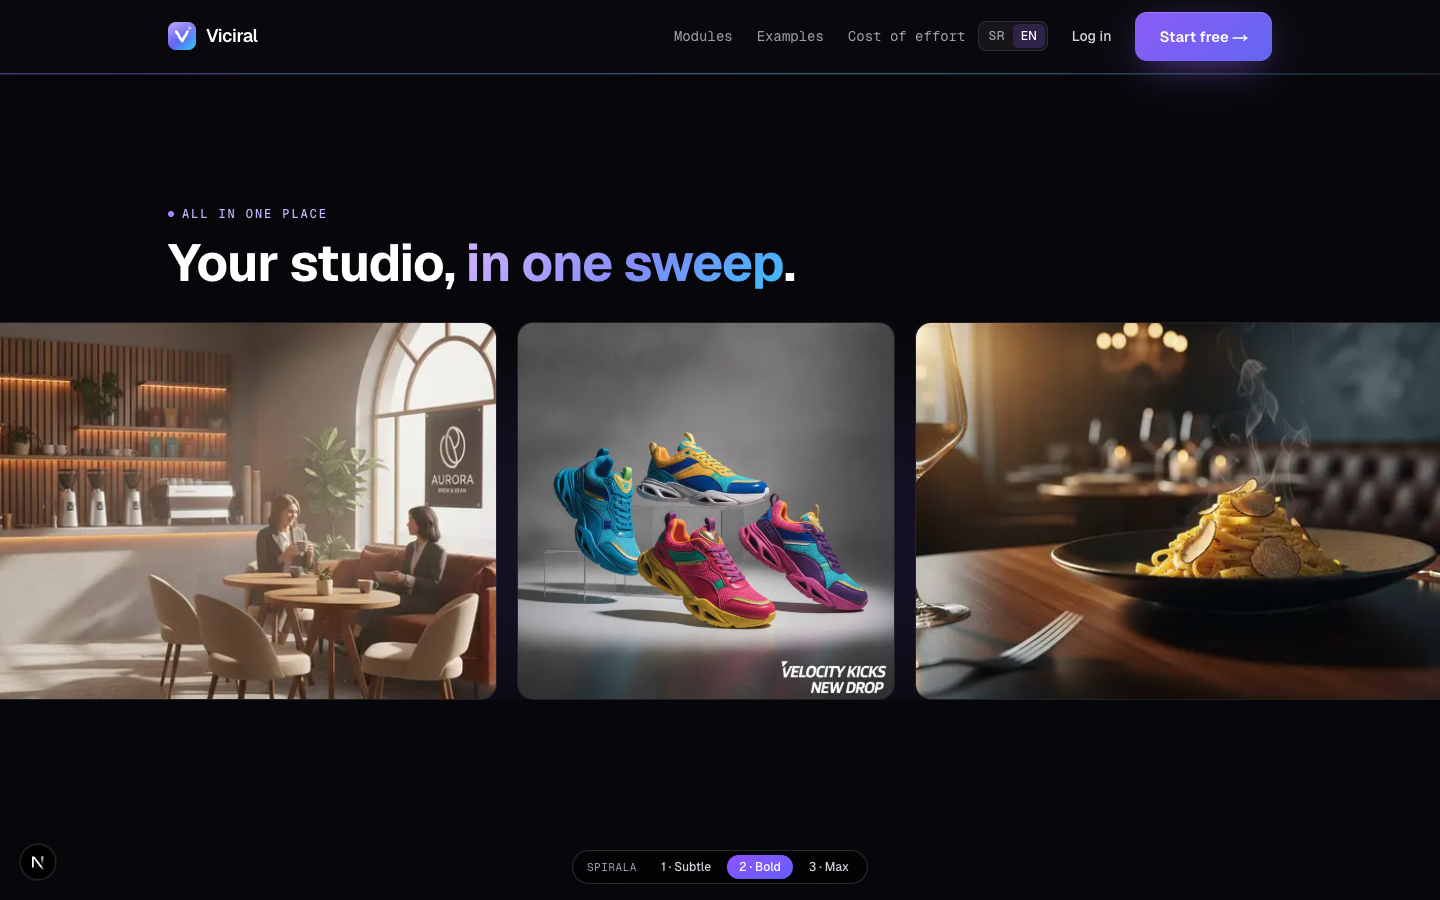
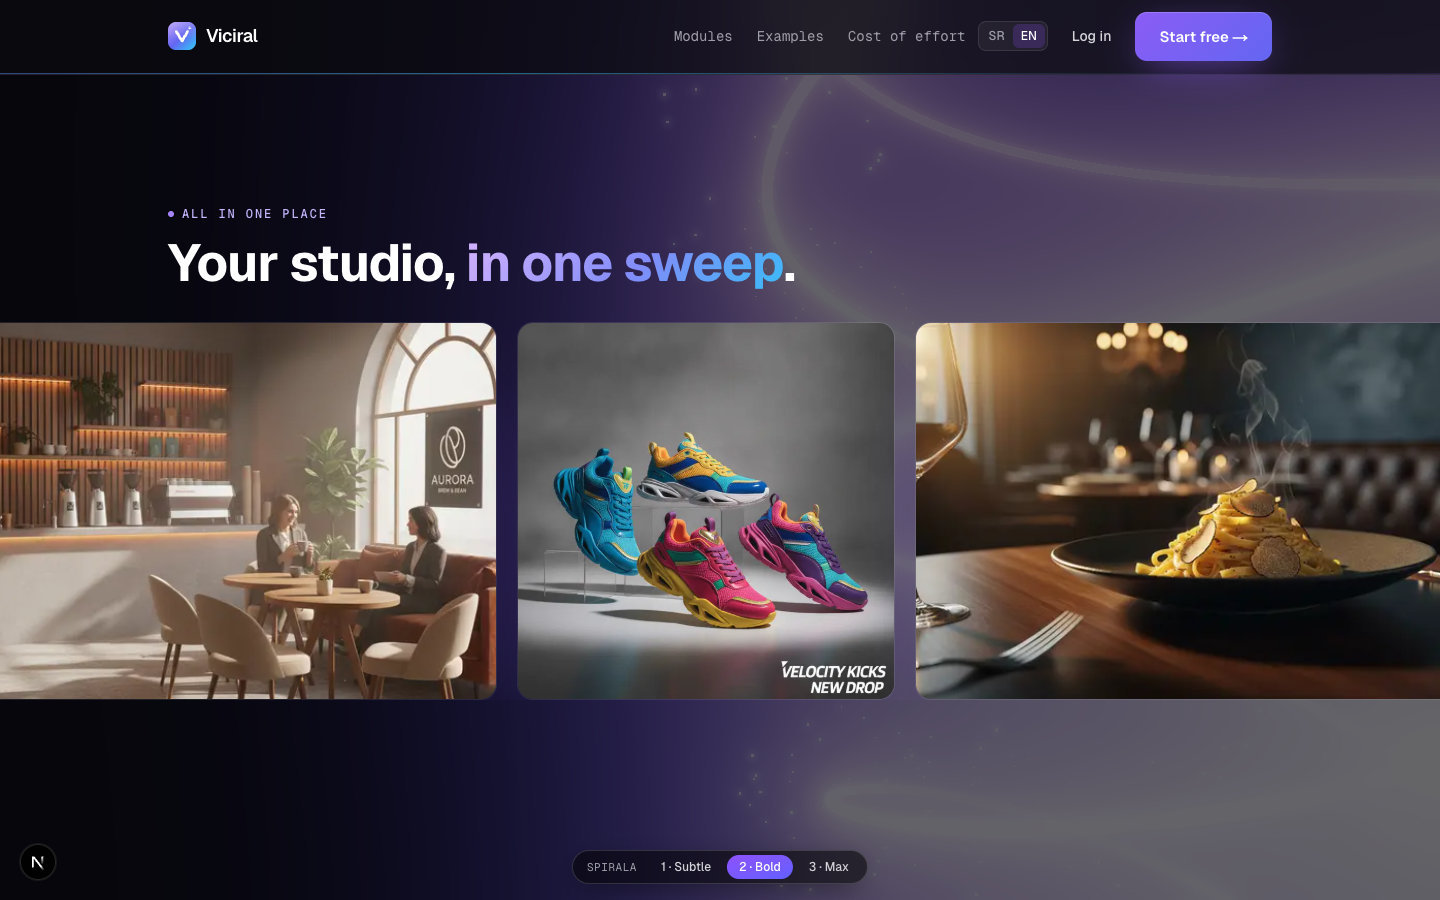
new design

diff --git a/components/spiral-canvas.tsx b/components/spiral-canvas.tsx
@@ -28,17 +28,46 @@ const C_A = new THREE.Color("#c084fc");
 const C_B = new THREE.Color("#6366f1");
 const C_C = new THREE.Color("#22d3ee");
 
+// The two strands trace the two arms of the logo "V" at the top, meet at the
+// vertex, then unspool out of it into the helix below.
+const V_END = 0.1; // fraction of the strand that draws the V
+const V_W = 300; // half-width of the V (arm spread — wide so the arms reach past the hero copy)
+const V_TOP = 250; // y of the arm tops (high, above the headline)
+const V_BOT = -40; // y of the shared vertex (near centre)
+
+function smoothstep(e0: number, e1: number, x: number) {
+  const t = Math.min(1, Math.max(0, (x - e0) / (e1 - e0)));
+  return t * t * (3 - 2 * t);
+}
+
 function buildStrand(tubeRadius: number, phase: number) {
-  const N = 800;
+  const N = 900;
+  const sign = phase < 0.1 ? -1 : 1; // strand A = left arm, strand B = right arm
   const pts: THREE.Vector3[] = [];
   for (let i = 0; i <= N; i++) {
     const tn = i / N;
-    const y = -tn * LENGTH;
-    const ang = tn * COILS * Math.PI * 2 + phase;
-    const r = RADIUS * (0.7 + 0.5 * Math.sin(tn * Math.PI * 2.2));
-    const cx = Math.sin(tn * Math.PI * 1.8) * SWAY + Math.sin(tn * Math.PI * 7) * 18;
-    const cz = Math.cos(tn * Math.PI * 1.3) * 60;
-    pts.push(new THREE.Vector3(cx + Math.cos(ang) * r, y, cz + Math.sin(ang) * r));
+    let x: number;
+    let y: number;
+    let z: number;
+    if (tn < V_END) {
+      // logo "V": straight arm from the top corner down to the shared vertex (0, V_BOT, 0)
+      const k = tn / V_END;
+      x = sign * V_W * (1 - k);
+      y = V_TOP - (V_TOP - V_BOT) * k;
+      z = 0;
+    } else {
+      // helix unspooling out of the vertex (radius/sway grow from 0 so it blossoms smoothly)
+      const u = (tn - V_END) / (1 - V_END);
+      const ramp = smoothstep(0, 0.08, u);
+      const ang = u * COILS * Math.PI * 2 + phase;
+      const r = RADIUS * (0.7 + 0.5 * Math.sin(u * Math.PI * 2.2)) * ramp;
+      const cx = (Math.sin(u * Math.PI * 1.8) * SWAY + Math.sin(u * Math.PI * 7) * 18) * ramp;
+      const cz = Math.cos(u * Math.PI * 1.3) * 60 * ramp;
+      x = cx + Math.cos(ang) * r;
+      y = V_BOT - u * LENGTH;
+      z = cz + Math.sin(ang) * r;
+    }
+    pts.push(new THREE.Vector3(x, y, z));
   }
   const curve = new THREE.CatmullRomCurve3(pts);
   const geo = new THREE.TubeGeometry(curve, TUBULAR, tubeRadius, RADIAL, false);
@@ -92,7 +121,9 @@ const FRAG = /* glsl */ `
     float pulse = smoothstep(0.0, 0.12, f) * smoothstep(0.55, 0.12, f);
     float head = smoothstep(0.06, 0.0, abs(t - uHead));
     float fres = pow(1.0 - max(dot(normalize(vN), normalize(vView)), 0.0), 2.0);
-    float bright = (0.7 + 2.8 * pulse + 1.35 * fres + 3.4 * head) * uBright;
+    // Extra glow over the logo "V" arms (t near 0) so the mark reads in the hero.
+    float vGlow = smoothstep(0.12, 0.0, t) * 1.05;
+    float bright = (0.7 + 2.8 * pulse + 1.35 * fres + 3.4 * head + vGlow) * uBright;
     gl_FragColor = vec4(base * bright, 0.92);
   }
 `;
@@ -137,8 +168,10 @@ function Strands({ scrollRef, bright }: { scrollRef: { current: number }; bright
     const p = scrollRef.current;
     const g = group.current;
     if (g) {
-      g.position.y = p * LENGTH;
-      const s = 1 + 0.2 * Math.sin(p * Math.PI * 6);
+      // Eased travel — slow at the start so the "V" lingers in the hero, then
+      // the helix unspools as you scroll on.
+      g.position.y = Math.pow(p, 1.35) * LENGTH;
+      const s = 1 + 0.2 * Math.sin(p * Math.PI * 6) * smoothstep(0.12, 0.3, p);
       g.scale.x = s;
       g.scale.z = s;
       g.position.x = Math.sin(state.clock.elapsedTime * 0.22) * 14;

diff --git a/app/globals.css b/app/globals.css
@@ -145,7 +145,9 @@ body::before {
   padding-bottom: clamp(4.5rem, 9vh, 8rem);
 }
 .section-pit {
-  background: var(--pit);
+  /* Semi-transparent veil (not opaque) so the 3D spiral glows THROUGH the
+     section while copy stays readable. Was `var(--pit)` (opaque) — that hid it. */
+  background: color-mix(in srgb, var(--pit) 62%, transparent);
 }
 
 /* ---- Fluid display type ---- */
